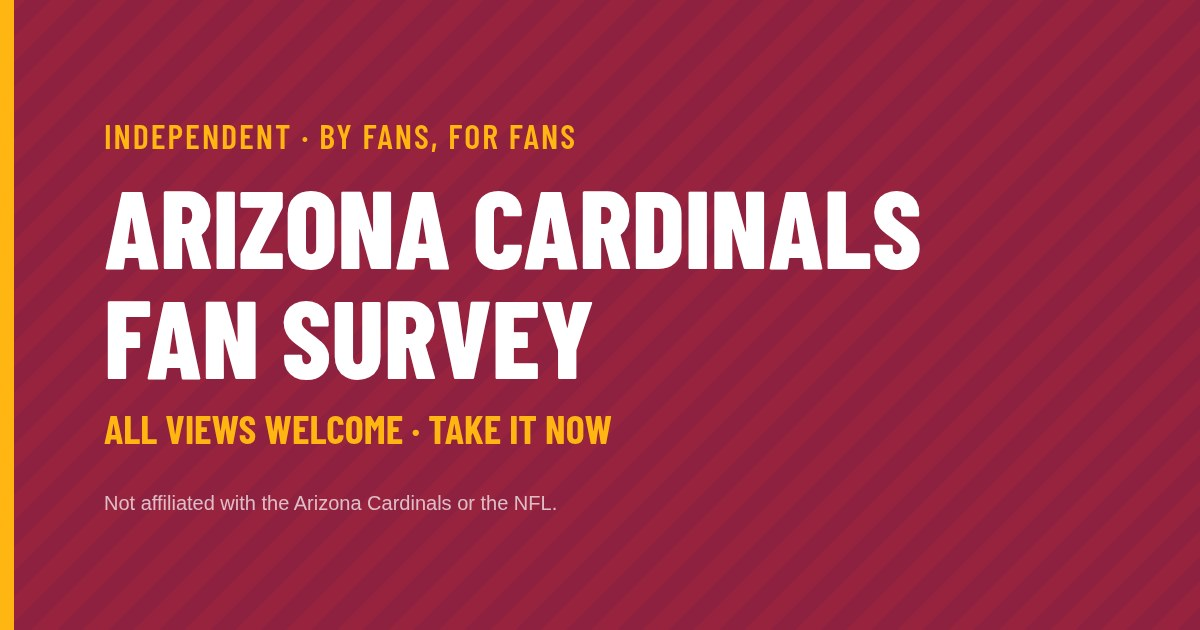
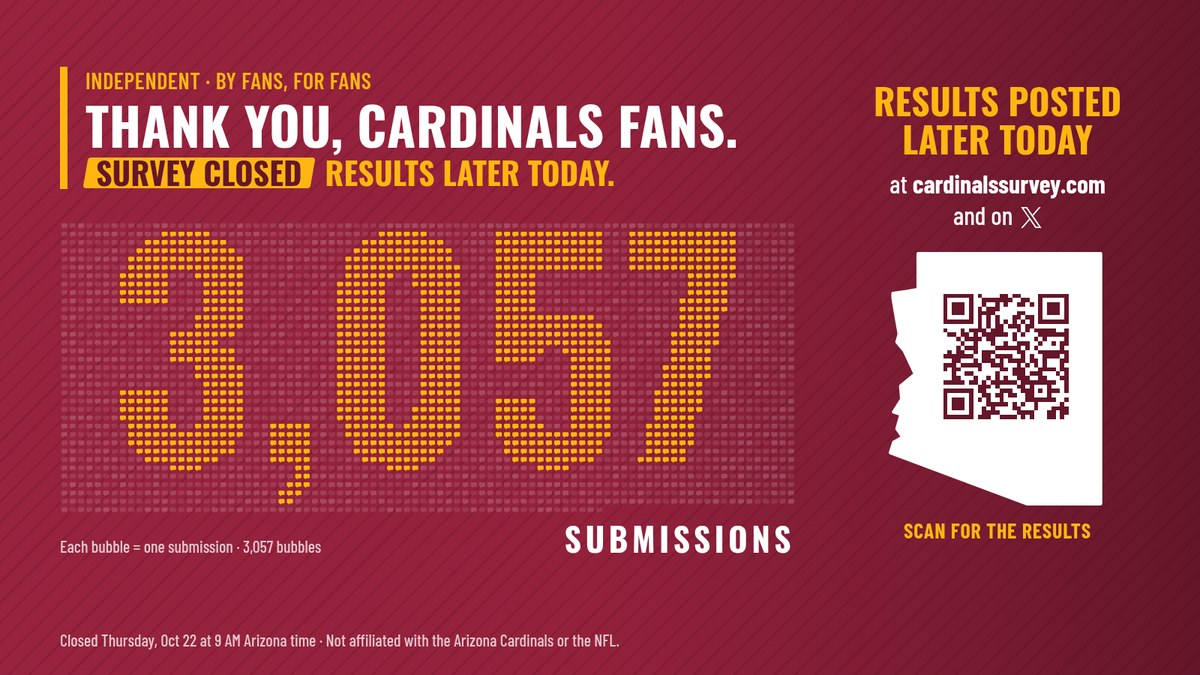
Survey closed: thank-you page (3,057 responses)

diff --git a/index.html b/index.html
@@ -2,31 +2,33 @@
 <html lang="en"><head>
 <meta charset="utf-8">
 <meta name="viewport" content="width=device-width,initial-scale=1">
-<title>Arizona Cardinals Fan Survey</title>
-<meta name="description" content="Independent, by fans, for fans. Take the Arizona Cardinals Fan Survey.">
-<meta property="og:title" content="Arizona Cardinals Fan Survey">
-<meta property="og:description" content="Independent, by fans, for fans. All views welcome.">
+<title>Arizona Cardinals Fan Survey: Now Closed</title>
+<meta name="description" content="The Arizona Cardinals Fan Survey is closed. Thank you. Results will be posted later today.">
+<meta property="og:title" content="Arizona Cardinals Fan Survey: Now Closed">
+<meta property="og:description" content="Thank you, Cardinals fans. Results will be posted later today.">
 <meta property="og:image" content="https://cardinalssurvey.com/og.jpg">
 <meta name="twitter:card" content="summary_large_image">
-<link rel="canonical" href="https://docs.google.com/forms/d/e/1FAIpQLSdu5_twNPLi6gM-v7iR9OYoWn2lGoFir7Doz448-jpyaqw6Pw/viewform?usp=header">
-<meta http-equiv="refresh" content="0;url=https://docs.google.com/forms/d/e/1FAIpQLSdu5_twNPLi6gM-v7iR9OYoWn2lGoFir7Doz448-jpyaqw6Pw/viewform?usp=header">
-<script>location.replace("https://docs.google.com/forms/d/e/1FAIpQLSdu5_twNPLi6gM-v7iR9OYoWn2lGoFir7Doz448-jpyaqw6Pw/viewform?usp=header");</script>
 <style>
-html,body{margin:0;height:100%}
-body{background:repeating-linear-gradient(135deg,#97233F 0 14px,#8f2140 14px 28px);color:#fff;font-family:"Barlow Condensed","Oswald","Arial Narrow",Arial,sans-serif;display:flex;align-items:center;justify-content:center;text-align:center}
-.wrap{padding:32px 24px;max-width:420px}
-.kick{color:#FFB612;font-weight:600;letter-spacing:.06em;font-size:15px;text-transform:uppercase}
-h1{font-size:38px;line-height:1.05;margin:10px 0 18px;text-transform:uppercase;font-weight:800}
-.spin{width:34px;height:34px;border:4px solid rgba(255,255,255,.25);border-top-color:#FFB612;border-radius:50%;margin:0 auto 18px;animation:s 0.9s linear infinite}
-@keyframes s{to{transform:rotate(360deg)}}
-p{font-size:18px;margin:0 0 22px;opacity:.9;font-family:Arial,sans-serif}
-a.btn{display:inline-block;background:#FFB612;color:#651629;text-decoration:none;font-weight:800;font-size:20px;padding:14px 26px;border-radius:10px;font-family:Arial,sans-serif}
-.fine{margin-top:28px;font-size:12px;opacity:.7;font-family:Arial,sans-serif}
+html,body{margin:0;min-height:100%}
+body{min-height:100vh;background:repeating-linear-gradient(135deg,#97233F 0 16px,#8c2039 16px 19px);color:#fff;font-family:"Barlow Condensed","Oswald","Arial Narrow",Arial,sans-serif;display:flex;align-items:center;justify-content:center;text-align:center}
+.wrap{padding:40px 24px;max-width:560px}
+.kick{color:#FFB612;font-weight:600;letter-spacing:.06em;font-size:16px;text-transform:uppercase}
+.badge{display:inline-block;margin:18px 0 6px;background:#FFB612;color:#651629;font-weight:800;font-size:18px;letter-spacing:.08em;padding:6px 16px;border-radius:6px;text-transform:uppercase}
+h1{font-size:54px;line-height:1;margin:12px 0 10px;text-transform:uppercase;font-weight:800}
+.count{font-size:84px;font-weight:800;color:#FFB612;line-height:1;margin:18px 0 0}
+.countlab{font-size:22px;font-weight:700;text-transform:uppercase;letter-spacing:.04em;margin-bottom:22px}
+p{font-size:18px;line-height:1.45;margin:0 0 14px;font-family:Arial,sans-serif;opacity:.92}
+.next{margin:24px auto 0;background:#651629;border:2px solid #FFB612;border-radius:10px;padding:16px 20px;max-width:420px}
+.next b{display:block;color:#FFB612;font-size:22px;text-transform:uppercase;letter-spacing:.04em;margin-bottom:4px}
+.next span{font-family:Arial,sans-serif;font-size:16px}
+.fine{margin-top:30px;font-size:12px;opacity:.7;font-family:Arial,sans-serif}
 </style></head><body><div class="wrap">
 <div class="kick">Independent &middot; By fans, for fans</div>
-<h1>Arizona Cardinals<br>Fan Survey</h1>
-<div class="spin"></div>
-<p>Opening the survey&hellip;</p>
-<a class="btn" href="https://docs.google.com/forms/d/e/1FAIpQLSdu5_twNPLi6gM-v7iR9OYoWn2lGoFir7Doz448-jpyaqw6Pw/viewform?usp=header">Not opening? Tap here</a>
+<div class="badge">Survey closed</div>
+<h1>Thank you,<br>Cardinals fans.</h1>
+<div class="count">3,057</div>
+<div class="countlab">responses</div>
+<p>The Arizona Cardinals Fan Survey closed Thursday, October 22 at 9:00 AM Arizona time. Thank you to everyone who took the time to share how you feel about the franchise. Every response counts.</p>
+<div class="next"><b>Results later today</b><span>The full report and the raw data will be posted right here.</span></div>
 <div class="fine">Not affiliated with the Arizona Cardinals or the NFL.</div>
 </div></body></html>
